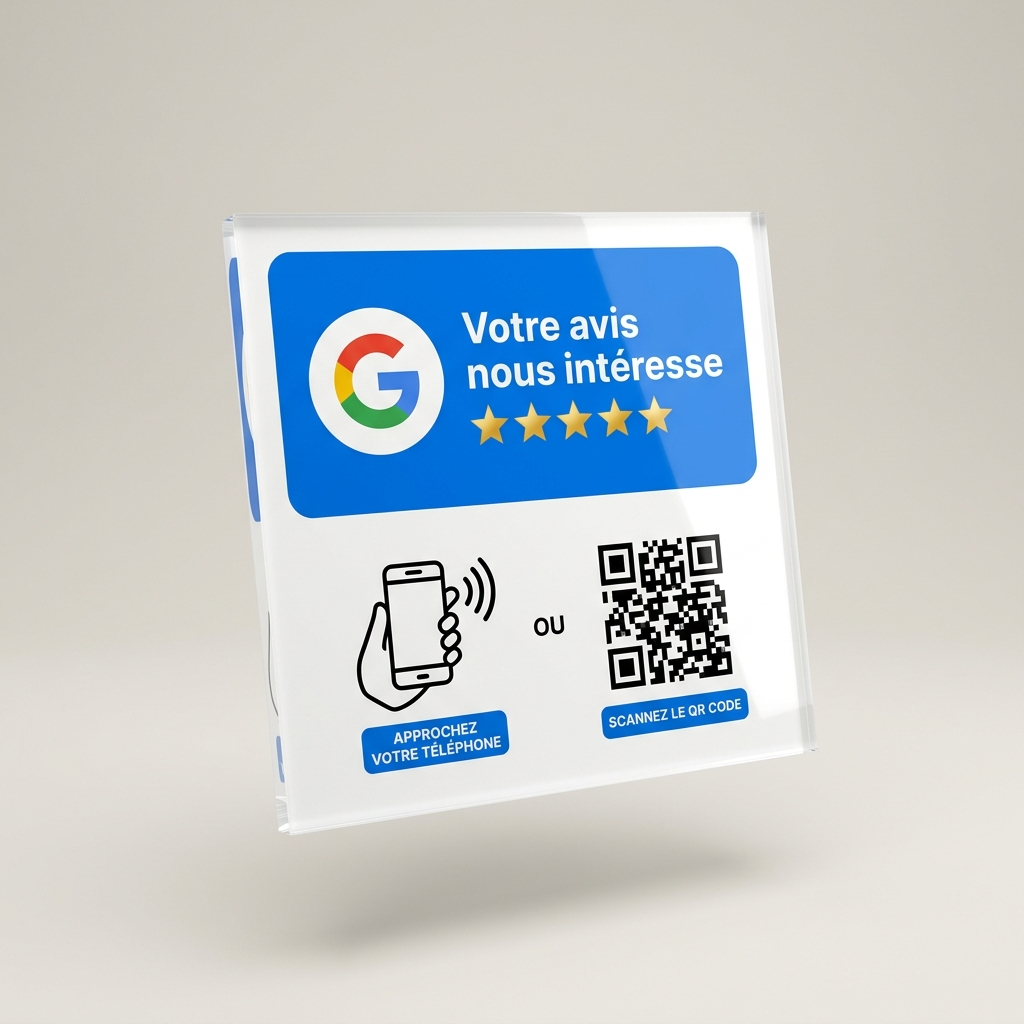
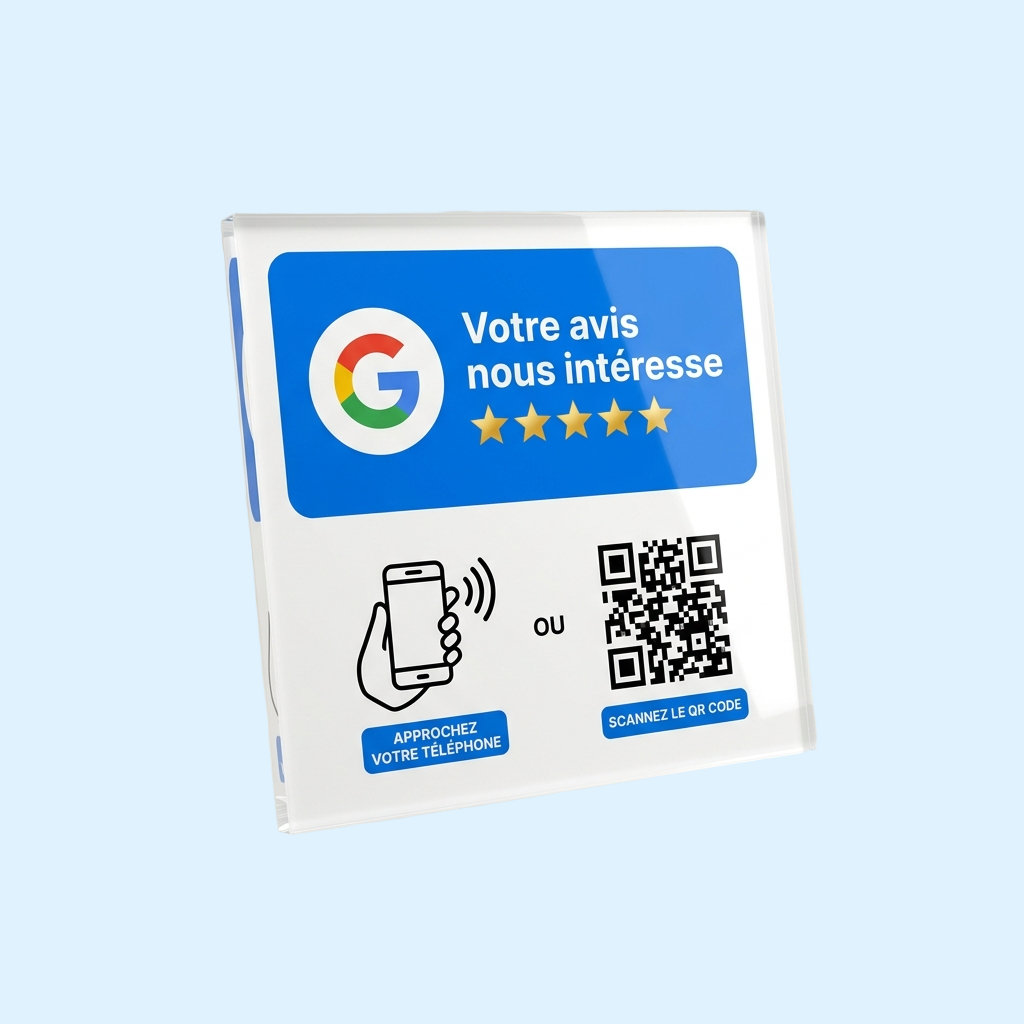
Harmonize plaque-nfc.png background with landing color scheme
Recompose the plaque render on the LP accent tint (--accent #E0F2FE)
instead of the original beige, so the product-section image sits in
harmony with the site palette (white sections + Google-blue accent).

diff --git a/CHANGELOG.md b/CHANGELOG.md
@@ -1,7 +1,7 @@
 # Changelog
 
 ## 2026-07-24
-CHORE: Remplacement des placeholders par les visuels finaux de la plaque NFC (public/images/plaque-nfc.png et carte-nfc-3d.png, fond transparent) utilisés dans la section produit de la landing
+CHORE: Remplacement des placeholders par les visuels finaux de la plaque NFC (public/images/plaque-nfc.png et carte-nfc-3d.png, fond transparent) utilisés dans la section produit de la landing ; fond de plaque-nfc.png recomposé sur le bleu clair de la charte (--accent #E0F2FE) au lieu du beige d'origine, pour harmoniser avec la palette de la LP
 
 ## 2026-07-15
 FIX: Inscription impossible depuis www.scannshine.com (403 sur /api/auth/sign-up/email, confirmé en prod) — Better Auth ne faisait confiance qu'à l'origine de production (apex). Redirection 308 www -> apex dans next.config.ts (canonicalise aussi le SEO) + trustedOrigins explicites (apex, www, getServerUrl) dans auth.ts
